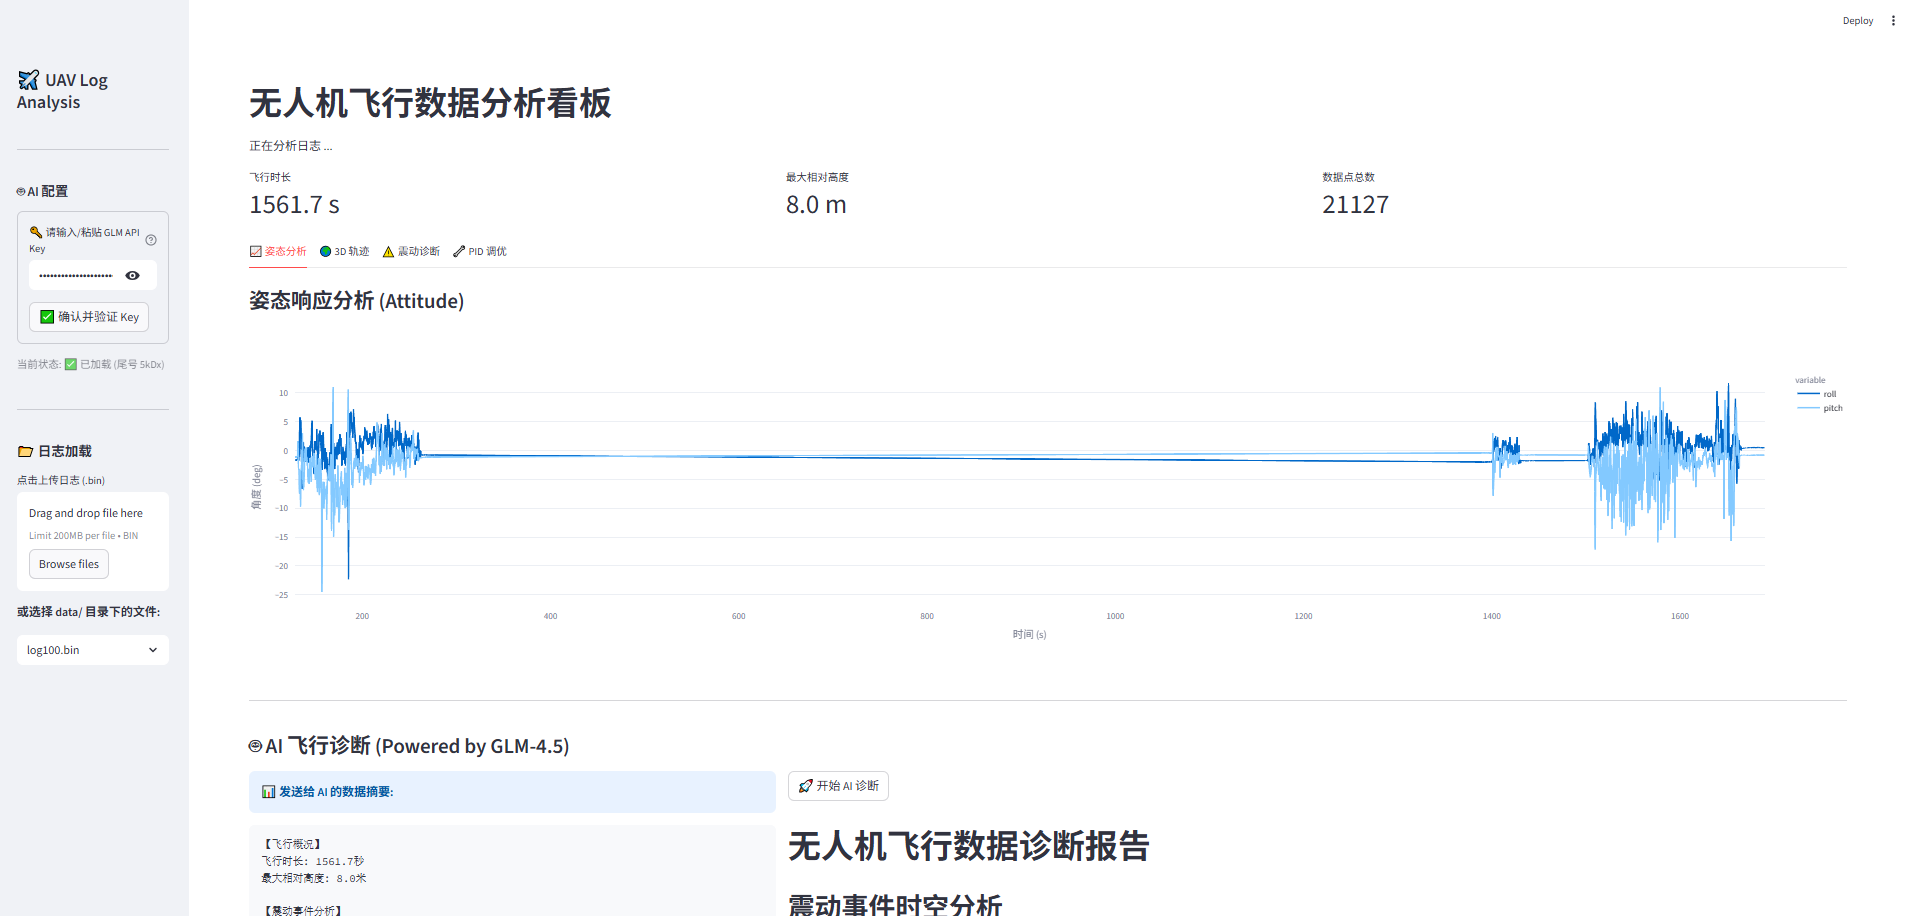
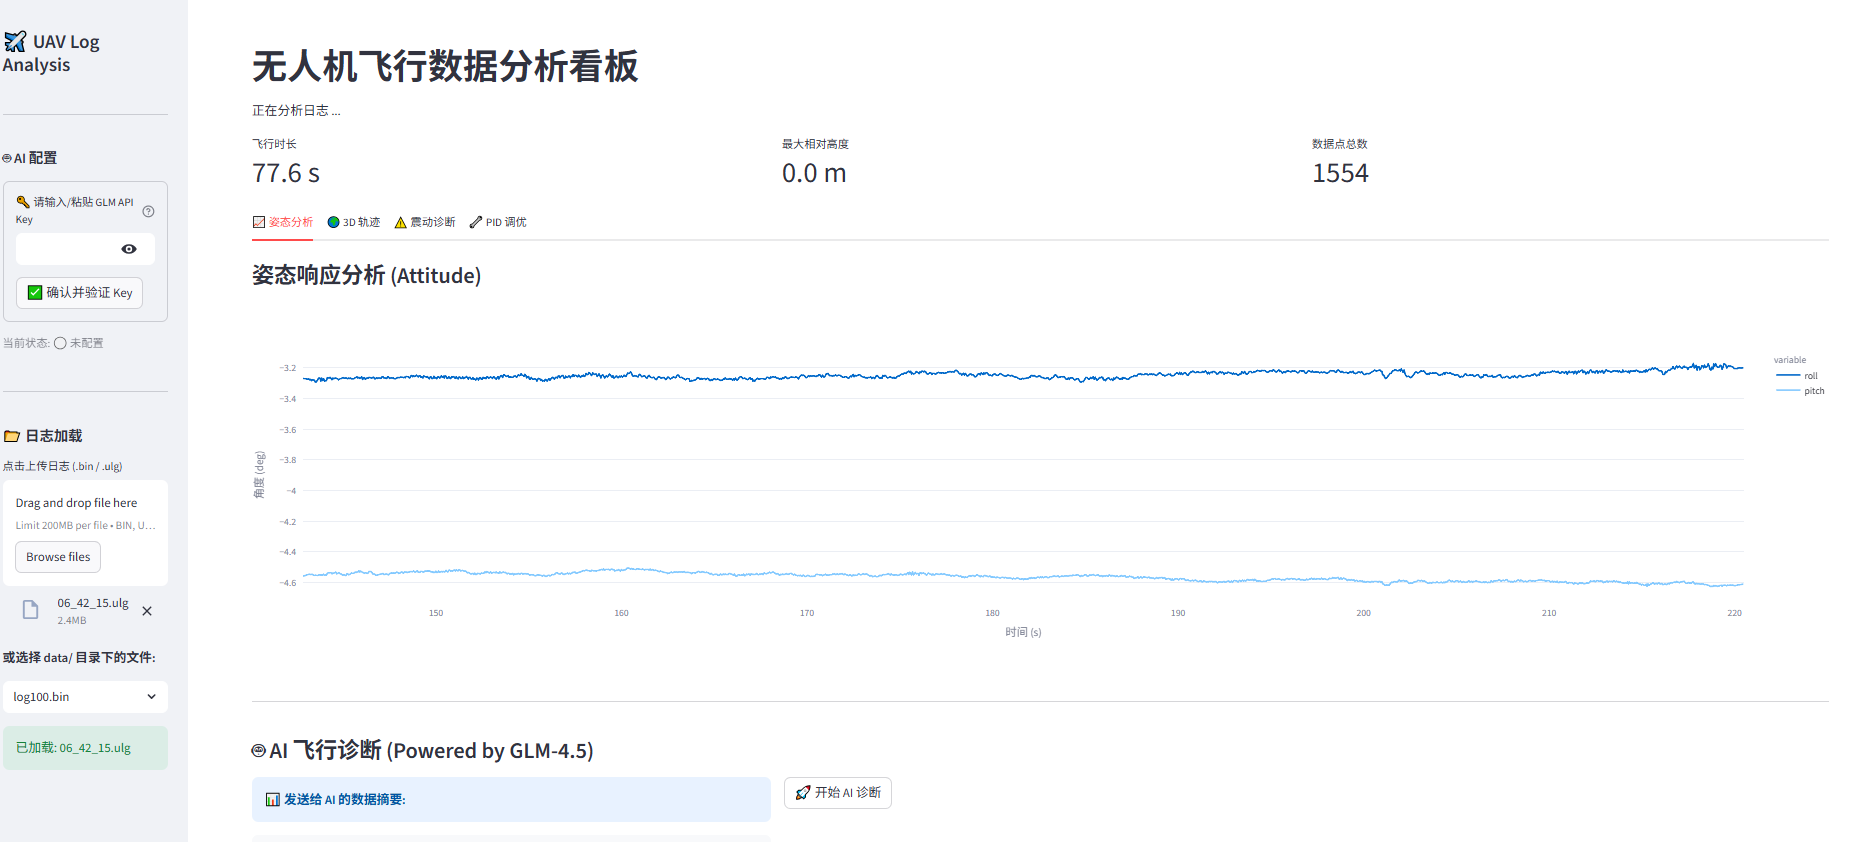
docs:add px4 ulog function

diff --git a/README.md b/README.md
@@ -1,4 +1,3 @@
-
 # 🚁 UAV Insight Toolkit (AI-Powered)
 
 ![License](https://img.shields.io/badge/License-GPLv3-blue.svg)
@@ -6,38 +5,55 @@
 ![AI](https://img.shields.io/badge/AI-GLM--4.5-purple)
 ![Framework](https://img.shields.io/badge/Framework-Streamlit-red)
 
-**UAV Insight Toolkit** is a comprehensive, open-source telemetry analysis and visualization platform designed for PX4 and ArduPilot drones. Built with Python and MAVLink, it bridges the gap between raw binary logs and actionable flight insights.
+**UAV Insight Toolkit** is a comprehensive, open-source telemetry analysis and visualization platform designed for PX4 and ArduPilot drones. Built with Python, Pymavlink, and PyULog, it bridges the gap between raw binary logs and actionable flight insights.
 
 > **Core Value:** Provides engineers with an interactive dashboard to diagnose vibration issues, PID performance, and 3D flight trajectories instantly—now powered by **GLM-4.5 AI** for automated diagnostics.
 
 ## 📸 Dashboard Preview
 
 ![Dashboard Demo](assets/demo_screenshot.png)
+![Dashboard Demo](assets/demo_screenshot_1.png)
 
 ## ✨ Key Features
 
+### 📡 Dual-Stack Support (ArduPilot & PX4)
+
+* **Auto-Detection:** Seamlessly handles **ArduPilot `.bin`** and **PX4 `.ulg`** logs. The system automatically selects the appropriate parser based on file extension.
+* **Unified Interface:** Standardizes data from different firmwares (MavLink vs. ULog) into a unified analysis pipeline.
+
 ### 🤖 AI Smart Diagnostics (AI Copilot)
+
 * **Powered by GLM-4.5:** Integrated with ZhipuAI's latest Large Language Model via `zai-sdk` for real-time inference.
 * **Time-Series Analysis:** Automatically downsamples flight logs to extract vibration peaks, altitude shifts, and attitude errors, generating a context-aware diagnostic report.
 * **One-Click Checkup:** Automatically identifies issues like "Frame Resonance," "PID Oscillation," and "Sensor Clipping."
 
+### 👁 Optical Flow & Indoor Navigation
+
+* **GPS-Denied Trajectory:** Automatically visualizes **Local Position (NED)** trajectories when GPS is unavailable, perfect for indoor flight analysis.
+* **Flow Analytics:** Dedicated charts for Optical Flow quality and integrated flow (rad), helping to diagnose "toilet bowl effect" or position drift issues.
+
 ### 🔧 PID Tuning Analysis (Rate Controller)
+
 * **Desired vs. Actual:** Overlays **Desired Rate** (Red) and **Actual Rate** (Blue) curves for Roll, Pitch, and Yaw axes.
 * **Quantified Metrics:** Automatically calculates Mean Absolute Error (MAE) to quantify tracking performance.
 
 ### 📊 Multi-Dimensional Visualization
+
 * **Interactive 3D Replay:** Visualizes flight paths with relative altitude encoding using Plotly 3D engines.
-* **Vibration & Clipping:** Auto-detects dangerous vibration levels (>30m/s²) and counts sensor clipping events.
+* **Vibration & Clipping:** * **ArduPilot:** Visualizes `VIBE` message data.
+  * **PX4:** Automatically calculates vibration levels (Rolling Std Dev) from high-frequency IMU data and detects accel clipping events.
 
 ### ⚡ Modern Engineering Experience
+
 * **Drag & Drop Upload:** Supports direct file uploads via the web UI or local scanning of the `data/` directory (EXE compatible).
 * **Secure Configuration:** Built-in API Key validation with secure storage (session-based or local file), ensuring keys are never exposed.
 
 ## 🛠 Tech Stack
 
-* **Core Logic:** Python 3.9, Pymavlink (MAVLink Protocol Handling)
+* **Core Parsing:** * `pymavlink` (for ArduPilot `.bin`)
+  * `pyulog` (for PX4 `.ulg`)
 * **AI Engine:** ZhipuAI GLM-4.5-Flash (via `zai-sdk`)
-* **Data Processing:** Pandas (Time-series alignment & forward-fill algorithms)
+* **Data Processing:** Pandas (Time-series alignment, merge_asof & forward-fill algorithms)
 * **Visualization:** Streamlit (Web UI), Plotly (Interactive Charts)
 
 ## 🚀 Quick Start
@@ -62,7 +78,8 @@ pip install -r requirements.txt
 To use the AI Diagnostics feature, you need a ZhipuAI API Key.
 
 1. Get your key from the [ZhipuAI Open Platform](https://bigmodel.cn/).
-2. **Method (GUI):** Enter the key in the sidebar and click "Verify".
+2. **Method A (GUI):** Enter the key in the sidebar and click "Verify".
+3. **Method B (File):** Create a file named `apikey.txt` in the root directory and paste your key there (this file is Git-ignored).
 
 ### 3. Usage
 
@@ -74,7 +91,7 @@ Bash
 streamlit run src/app.py
 ```
 
-The app will launch at `http://localhost:8501`. You can then drag and drop your `.bin` log files to start analysis.
+The app will launch at `http://localhost:8501`. You can then drag and drop your `.bin` or `.ulg` log files to start analysis.
 
 ## 📂 Project Structure
 
@@ -86,7 +103,8 @@ UAV-Insight-Toolkit/
 ├── src/
 │   ├── analyzer/       # Core Parsing Logic
 │   │   ├── parser_base.py   # Abstract Base Class
-│   │   └── ardu_parser.py   # ArduPilot Implementation
+│   │   ├── ardu_parser.py   # ArduPilot Implementation
+│   │   └── px4_parser.py    # PX4 Implementation (New)
 │   └── app.py          # Streamlit Dashboard Entry
 ├── requirements.txt    # Dependency Management
 └── README.md           # Documentation
@@ -100,8 +118,8 @@ UAV-Insight-Toolkit/
 - [x] **PID Analysis (Rate Roll/Pitch/Yaw)**
 - [x] **AI Smart Diagnostics (GLM-4.5 Integration)**
 - [x] File Upload & EXE Path Compatibility
+- [x] **PX4 .ulg Support (with Optical Flow & Local Pos)**
 - [ ] Export to CSV/MAT format
-- [ ] PX4 .ulg Support
 
 ## 🤝 Contribution
 
